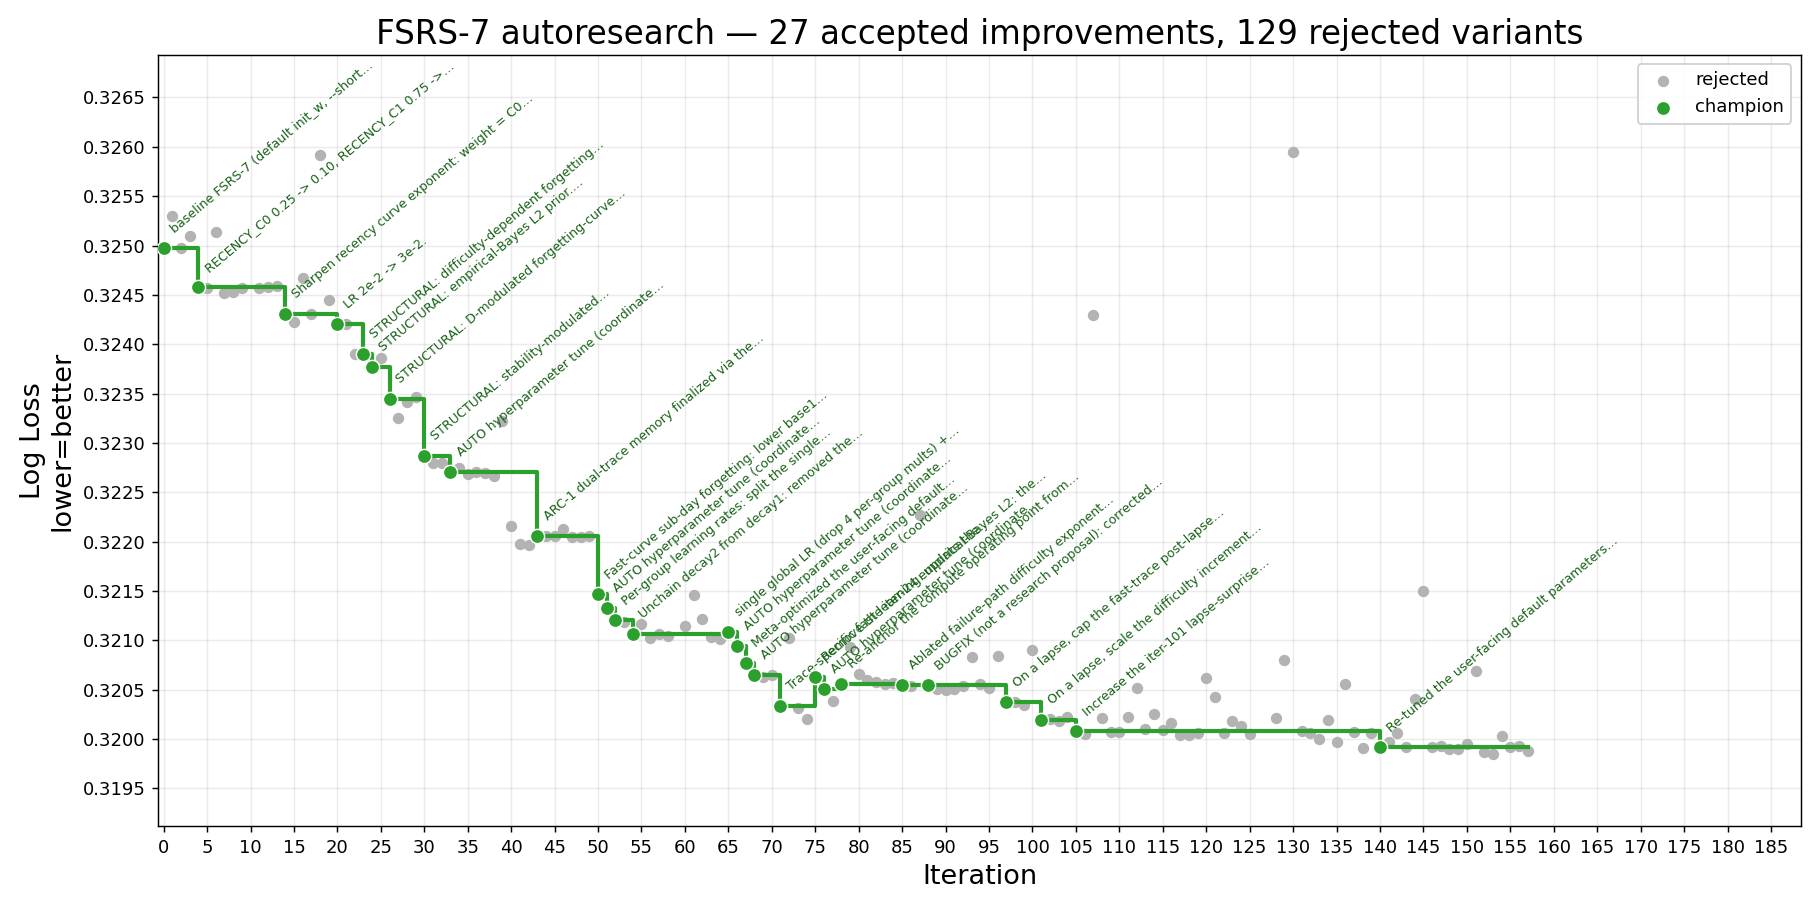
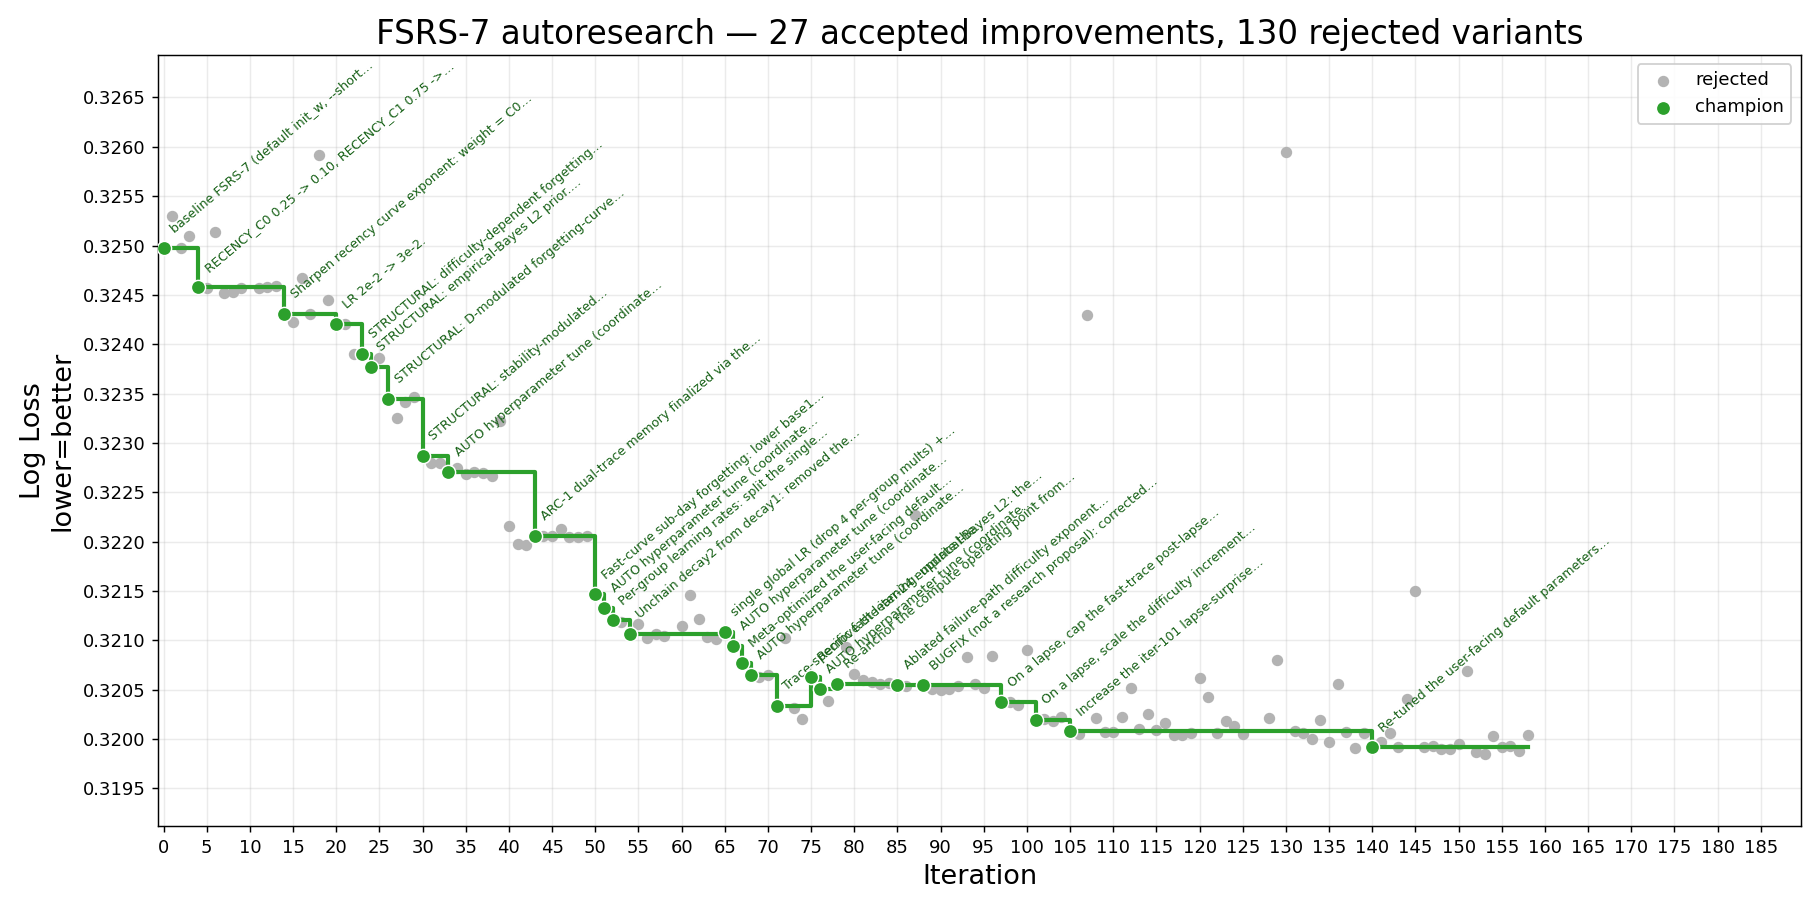
iter-158 (rejected): lapse-only d-surprise in fsrs7_next_d
Add (1 + 0.5*(5-d)/5) factor to the lapse delta_d alongside the R-surprise.
by_user 0.31991476 -> 0.32003954 (-1.25e-4, worse). Again-class +1.17e-3:
(5-d)/5 < 0 for d>5 where lapses concentrate -> shrinks delta_d, compounding
the (10-d)/9 damping -> D under-grows on repeat-failing cards. Reverted;
champion unchanged at iter-140.

diff --git a/result/history.md b/result/history.md
@@ -1,6 +1,6 @@
 # FSRS-7 autoresearch — iteration history
 
-_157 record(s). Generated from `history.jsonl` — do not edit by hand._
+_158 record(s). Generated from `history.jsonl` — do not edit by hand._
 
 | # | Time (UTC) | Thresh. | LL before | LL after | Δ LL | Cx before | Cx after | Δ Cx % | Status | Summary |
 |--:|---|---:|---:|---:|---:|---:|---:|---:|---|---|
@@ -161,3 +161,4 @@ _157 record(s). Generated from `history.jsonl` — do not edit by hand._
 | 155 | 2026-06-06T14:50:04 | 0.0001 | 0.31991 | 0.31992 | -0.00001 | 16,932 | 16,938 | +0.04% | rejected | Change the difficulty mean-reversion anchor from fixed init_d(4) to init_d(current rating). |
 | 156 | 2026-06-06T14:55:30 | 0.0001 | 0.31991 | 0.31993 | -0.00002 | 16,932 | 16,942 | +0.06% | rejected | Replace linear lapse-surprise factor (1+1.0*(R-0.9)) with sigmoid 0.5 + 1/(1+exp(-8*(R-0.9))). |
 | 157 | 2026-06-06T14:59:41 | 0.0001 | 0.31991 | 0.31987 | +0.00004 | 16,932 | 16,992 | +0.35% | rejected | R-shift the rating neutral point for successes: neutral = 3 + (R-0.9) for rating>=2 (lapse unchanged). |
+| 158 | 2026-06-06T15:53:21 | 0.0001 | 0.31991 | 0.32004 | -0.00012 | 16,932 | 16,948 | +0.09% | rejected | Add a lapse-only d-surprise factor (1 + 0.5*(5-d)/5) to fsrs7_next_d, multiplying delta_d alongside the R-surprise. |
